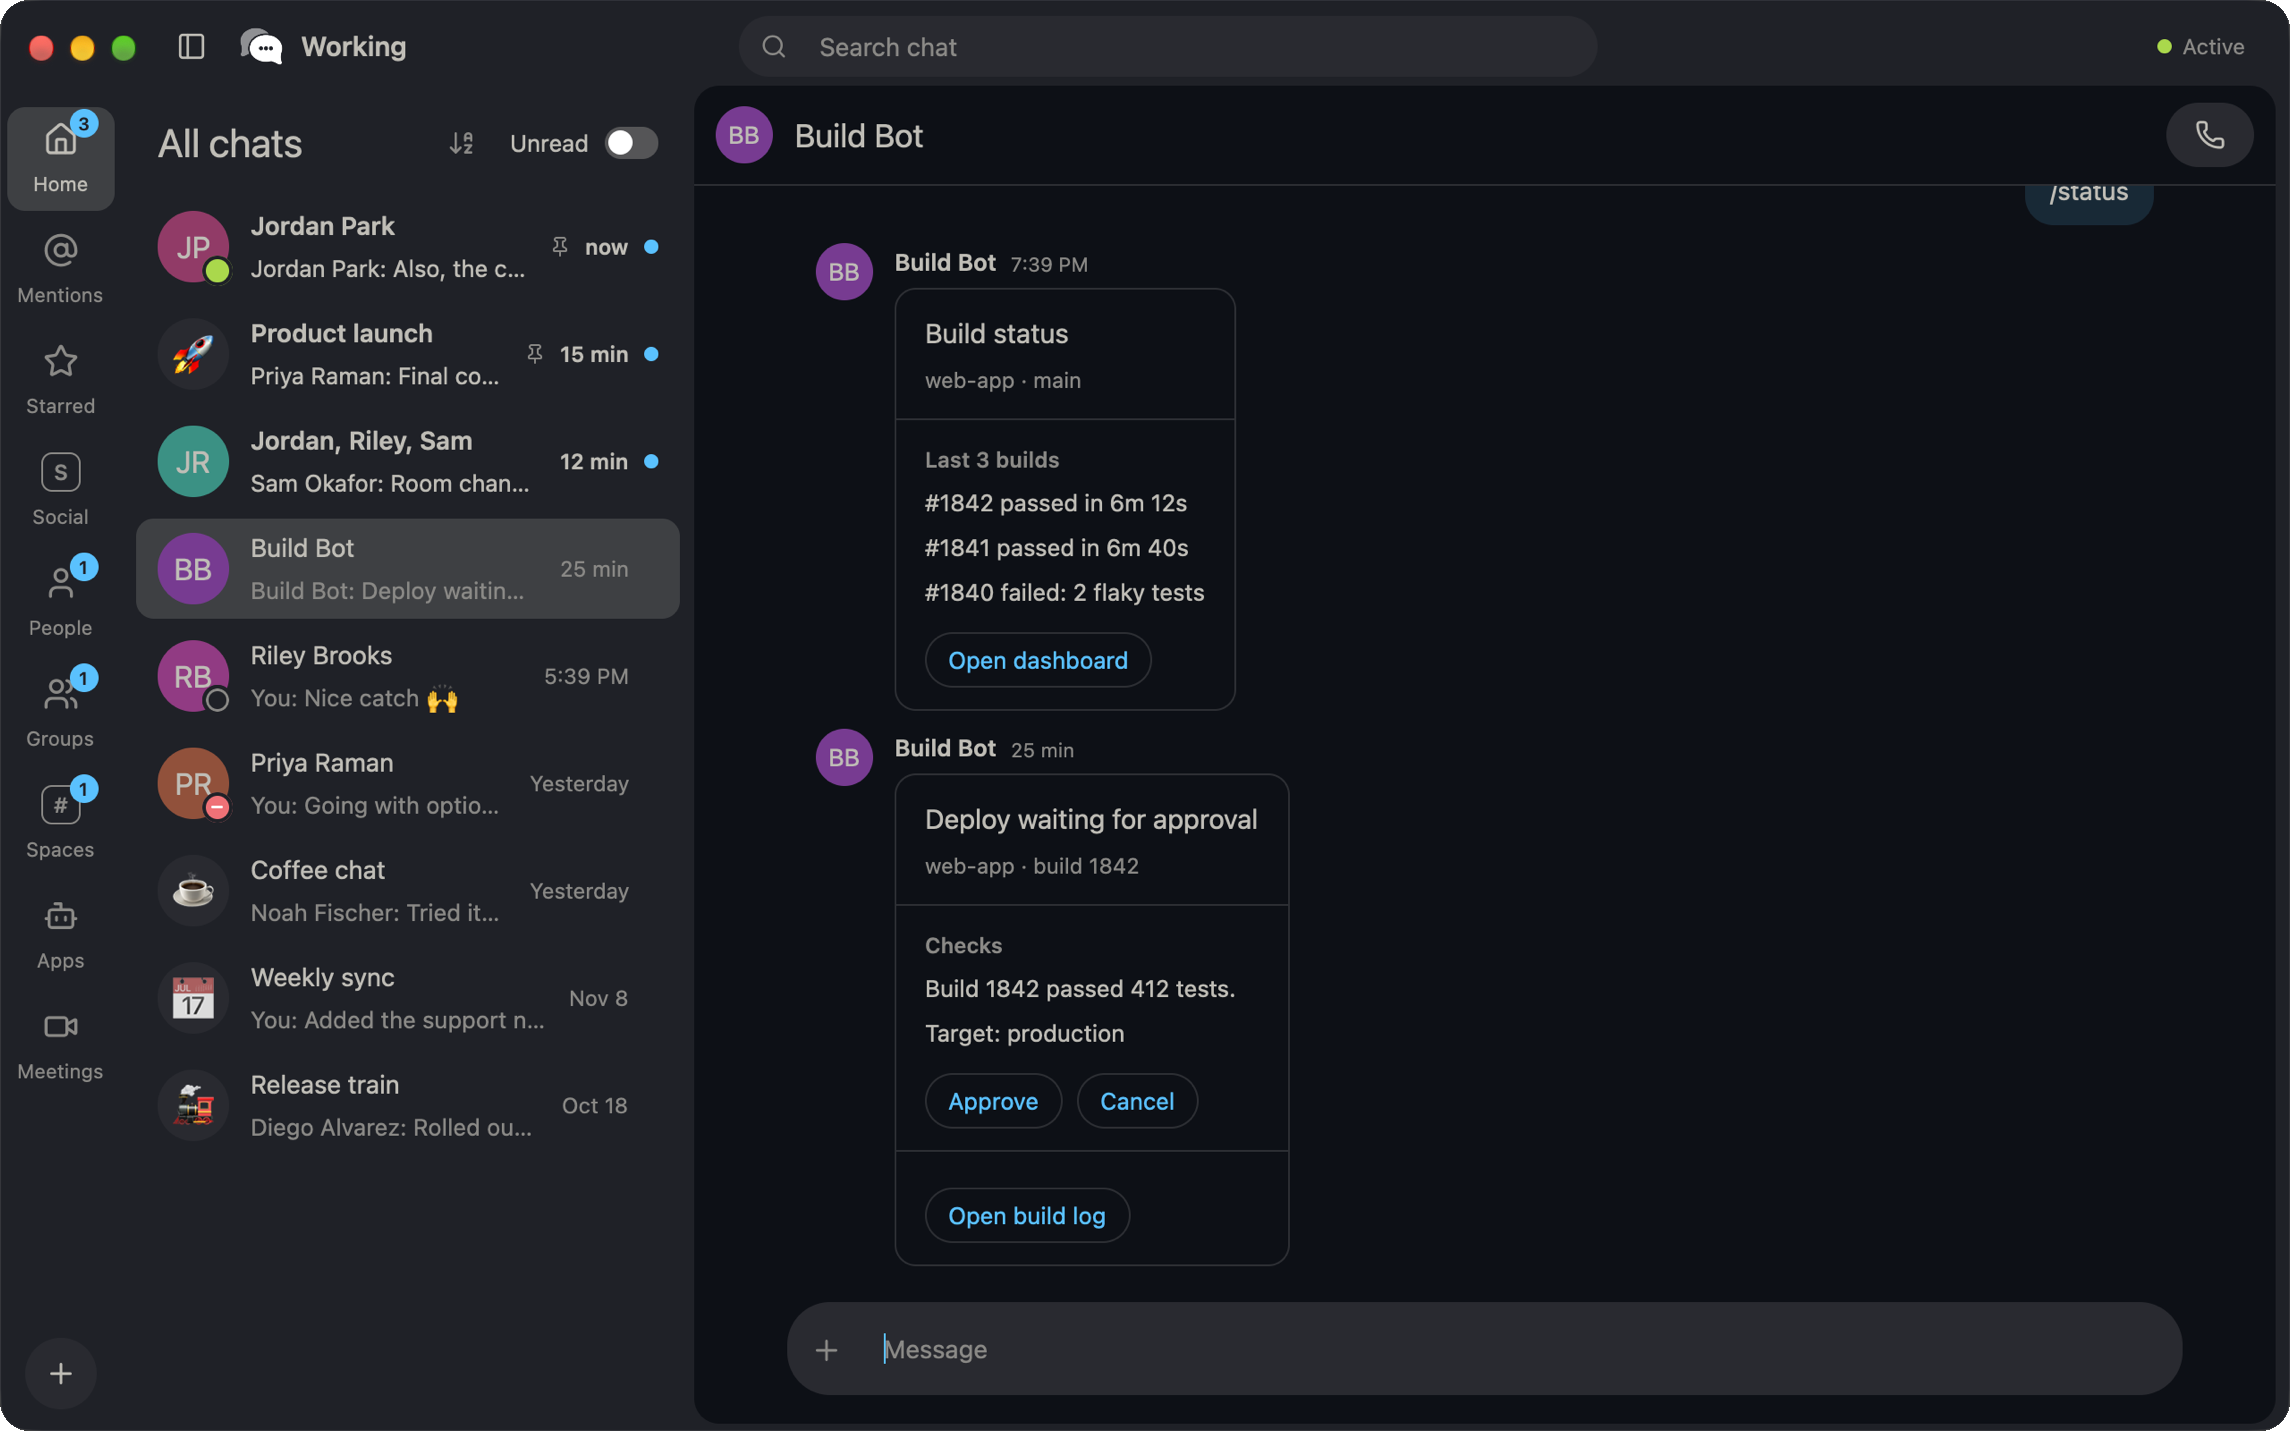
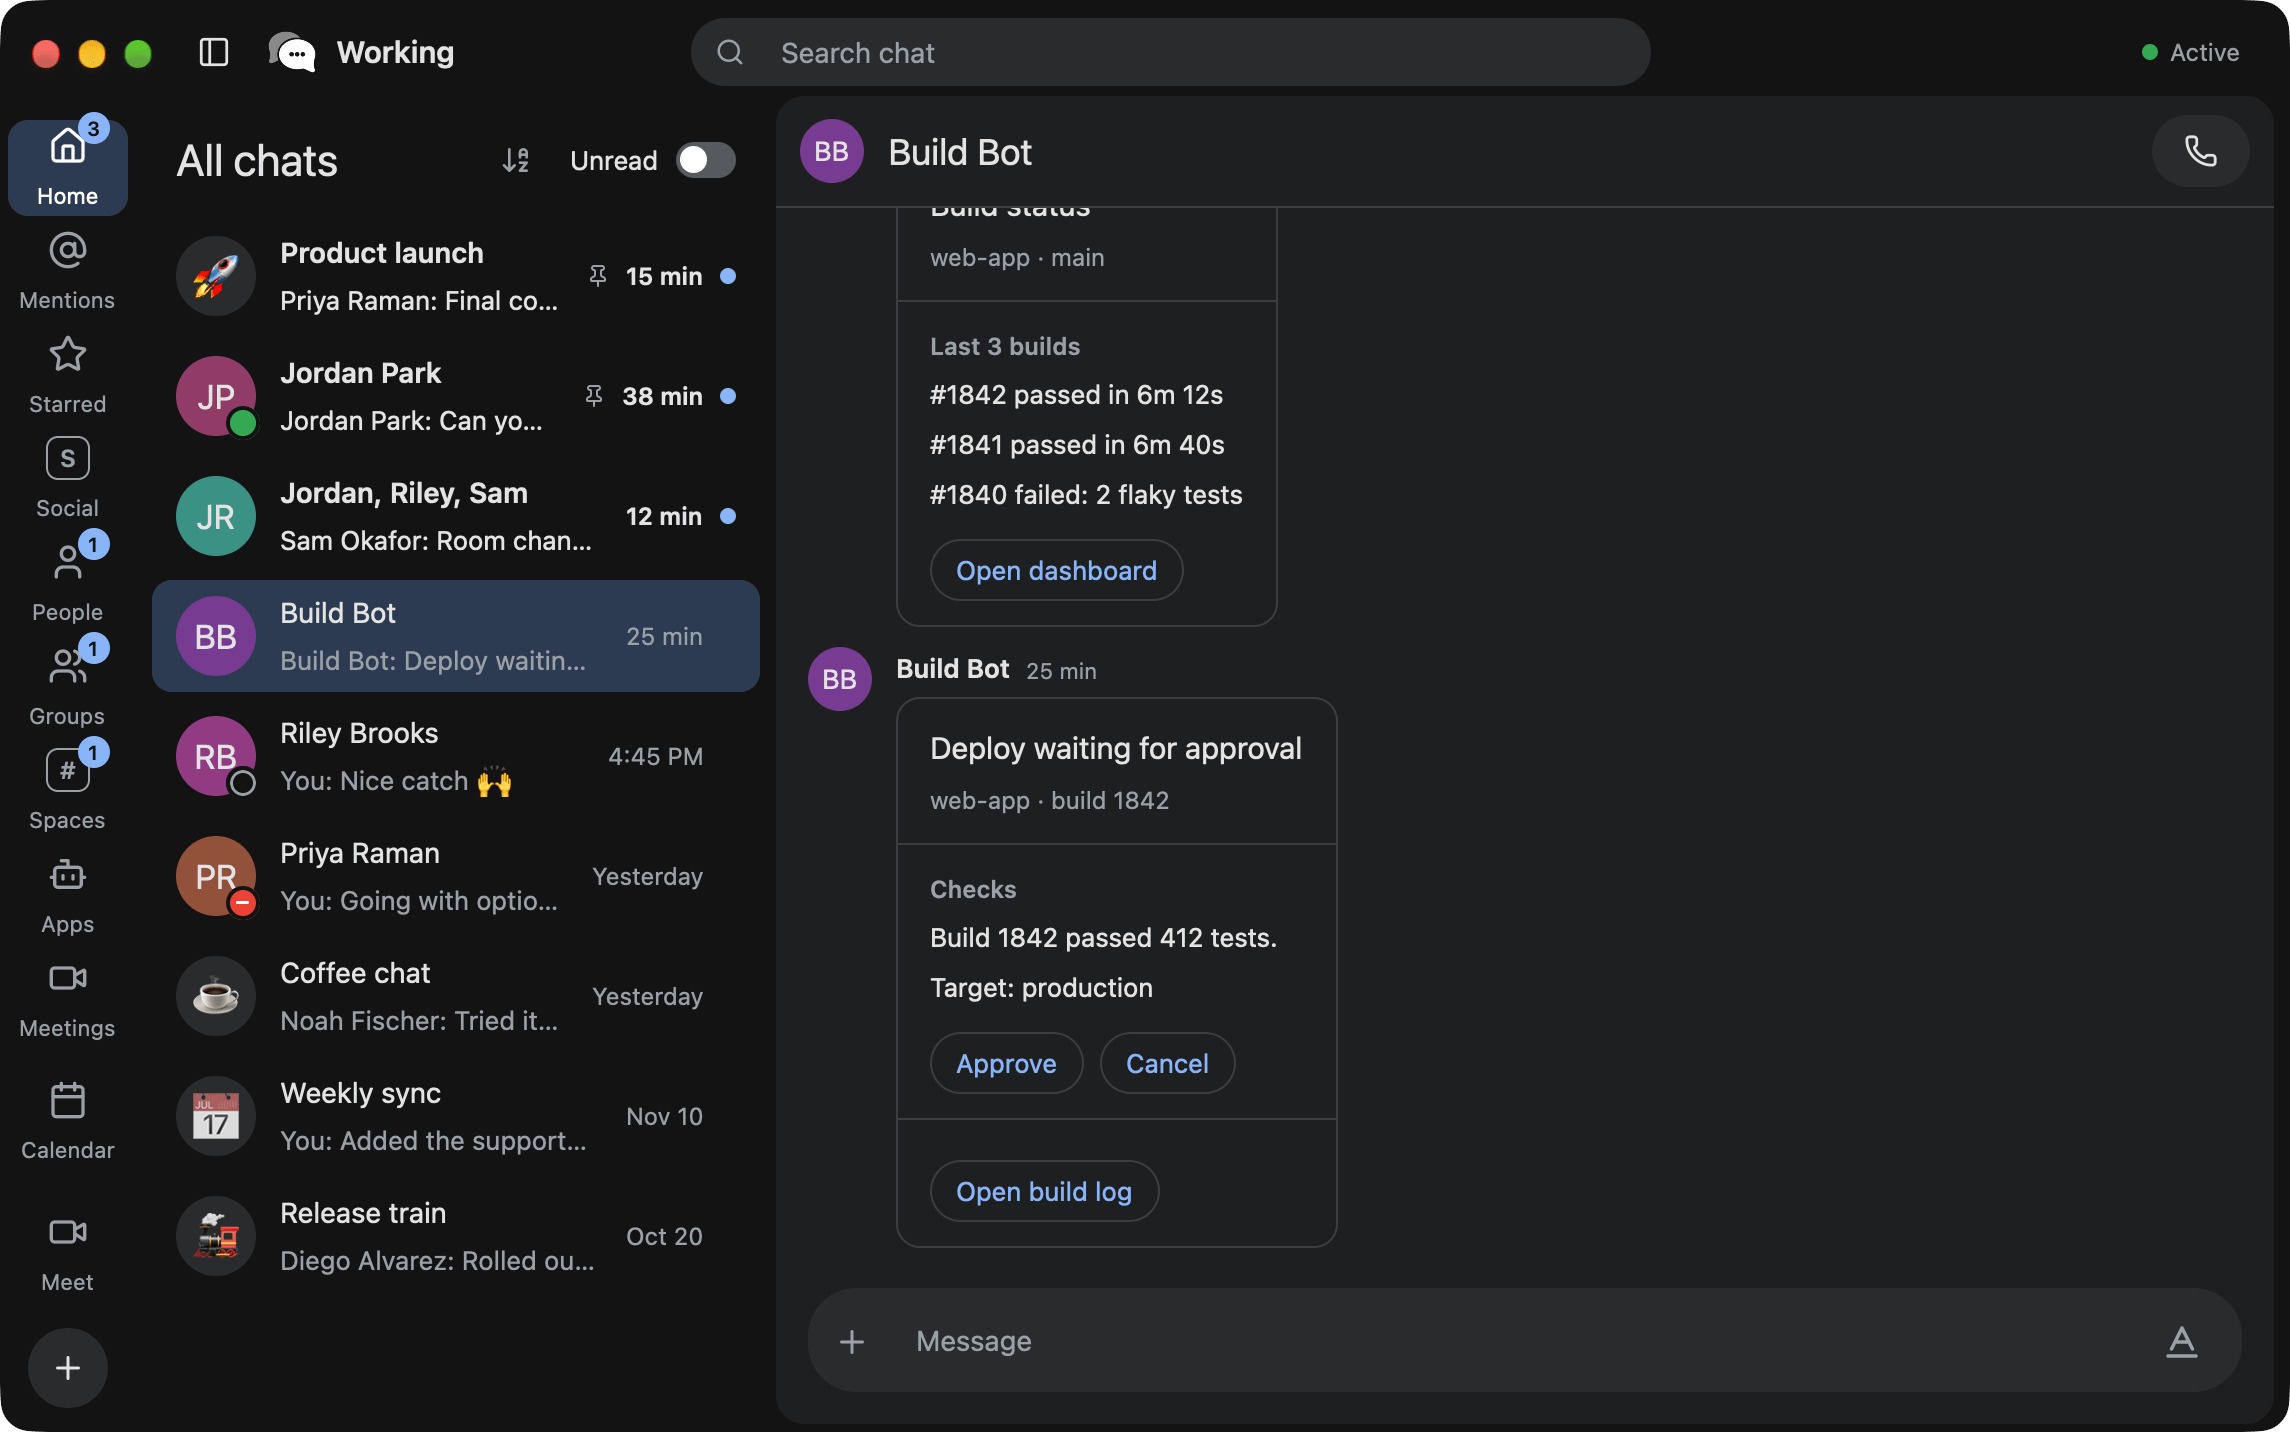
docs: retake the screenshots in a dark theme and add Calendar, Meet, Windows, and Linux
- The lead image is the Google Chat layout; the grid adds Calendar, Meet, and one shot each from Windows and Linux.

diff --git a/crates/app/src/event_editor.rs b/crates/app/src/event_editor.rs
@@ -273,16 +273,14 @@ impl EventEditor {
     ];
     title.update(cx, |state, cx| state.focus(window, cx));
 
-    let guests = held
-      .map(|event| {
-        event
-          .guests
-          .iter()
-          .filter(|guest| !guest.me)
-          .map(|guest| guest.email.clone())
-          .collect()
-      })
-      .unwrap_or_default();
+    let guests = held.map_or_default(|event| {
+      event
+        .guests
+        .iter()
+        .filter(|guest| !guest.me)
+        .map(|guest| guest.email.clone())
+        .collect()
+    });
     Self {
       kind: held.map_or(EventKind::Event, |event| event.kind),
       calendar_id: held.map_or(own, |event| event.calendar_id.clone()),

diff --git a/crates/app/src/conversation.rs b/crates/app/src/conversation.rs
@@ -1075,10 +1075,7 @@ impl ConversationView {
       return None;
     }
     let chips = files.iter().enumerate().map(|(ix, path)| {
-      let name = path
-        .file_name()
-        .map(|name| name.to_string_lossy().into_owned())
-        .unwrap_or_default();
+      let name = path.file_name().map_or_default(|name| name.to_string_lossy().into_owned());
       let glyph = if is_image(path) {
         // The backdrop is for pictures with see-through parts.
         img(path.clone())

diff --git a/crates/app/src/viewer.rs b/crates/app/src/viewer.rs
@@ -90,10 +90,7 @@ enum Class {
 }
 
 fn extension(name: &str) -> String {
-  name
-    .rsplit_once('.')
-    .map(|(_, ext)| ext.to_ascii_lowercase())
-    .unwrap_or_default()
+  name.rsplit_once('.').map_or_default(|(_, ext)| ext.to_ascii_lowercase())
 }
 
 fn classify(att: &Attachment) -> Class {

diff --git a/README.md b/README.md
@@ -11,7 +11,7 @@
 <p align="center">Google Chat as a real desktop app for macOS, Linux, and Windows.</p>
 
 <p align="center">
-  <img src="docs/screenshots/messages.png" width="900" alt="Working in the Messages layout: every chat in one list with previews, beside the open conversation">
+  <img src="docs/screenshots/google-chat.png" width="900" alt="Working in the Google Chat layout: the sidebar with its sections beside the Product launch space, showing a link preview of the new landing page with a reaction">
 </p>
 
 ---
@@ -26,16 +26,24 @@ Pick the layout that fits how you work, switch any time in Settings, and every l
 
 <table>
   <tr>
-    <td width="50%"><img src="docs/screenshots/google-chat.png" alt="Google Chat layout"><br><b>Google Chat.</b> The sidebar you already know, with sections, Mentions, and Starred, just faster.</td>
-    <td width="50%"><img src="docs/screenshots/rail.png" alt="Rail layout"><br><b>Rail.</b> People, Groups, Spaces, and Apps one click away, with unread counts on each.</td>
+    <td width="50%"><img src="docs/screenshots/messages.png" alt="Messages layout: every chat in one list with previews, beside the open conversation"><br><b>Messages.</b> Every chat in one list with previews, beside the conversation. Or keep the Google Chat sidebar you already know.</td>
+    <td width="50%"><img src="docs/screenshots/rail.png" alt="Rail layout: tabs with unread counts, the chat list, and a bot conversation with cards"><br><b>Rail.</b> People, Groups, Spaces, and Apps one click away, with unread counts on each.</td>
   </tr>
   <tr>
-    <td width="50%"><img src="docs/screenshots/filters.png" alt="Filter chips and the sort menu"><br><b>Find people fast.</b> Filter to just people, groups, spaces, apps, or unread, then sort by recent or A to Z.</td>
-    <td width="50%"><img src="docs/screenshots/themes.png" alt="Theme picker"><br><b>28 themes.</b> Ayu, Catppuccin, Dracula, Tokyo Night, and more, previewed live with ⌘⇧T.</td>
+    <td width="50%"><img src="docs/screenshots/calendar.png" alt="The Calendar week view with an event card offering Join with Google Meet and a Going? reply"><br><b>Calendar.</b> Google Calendar in the same window: day to year views, event cards with Join and going or not, and an editor for new events.</td>
+    <td width="50%"><img src="docs/screenshots/meet.png" alt="The Meet view: a day's meetings beside the field that joins with a code or nickname"><br><b>Meet.</b> The day's meetings, a field to join with a code or a link, and new meetings in a click.</td>
   </tr>
   <tr>
-    <td width="50%"><img src="docs/screenshots/settings.png" alt="Layout and density settings"><br><b>Make it yours.</b> Layout, density, sidebar side and width, auto-hide: all a click away.</td>
+    <td width="50%"><img src="docs/screenshots/filters.png" alt="The People filter chip and the sort menu open over the chat list"><br><b>Find people fast.</b> Filter to just people, groups, spaces, apps, or unread, then sort by recent or A to Z.</td>
+    <td width="50%"><img src="docs/screenshots/themes.png" alt="Theme picker previewing Ayu Dark, with Working Dark marked as the current theme"><br><b>28 themes.</b> Ayu, Catppuccin, Dracula, Tokyo Night, and more, previewed live with ⌘⇧T.</td>
+  </tr>
+  <tr>
+    <td width="50%"><img src="docs/screenshots/settings.png" alt="Settings open on the density and layout options"><br><b>Make it yours.</b> Layout, density, sidebar side and width, auto-hide: all a click away.</td>
     <td width="50%"><br><b>Try it without an account.</b> These screenshots come from demo mode's made-up workspace. Run <code>just demo</code> to explore every feature before you sign in.</td>
+  </tr>
+  <tr>
+    <td width="50%"><img src="docs/screenshots/windows.png" alt="Working on Windows in the Ayu Dark theme: the Google Chat sidebar beside a chat showing a photo of a bowl of ramen"><br><b>On Windows.</b> The same app, with the window buttons where Windows puts them.</td>
+    <td width="50%"><img src="docs/screenshots/linux.png" alt="Working on Linux in the Messages layout: the chat list beside the Coffee chat space, where a photo of fresh coffee beans gets a reply"><br><b>On Linux.</b> An AppImage for x86_64 and Arm64, with color emoji on every distribution.</td>
   </tr>
 </table>
 
